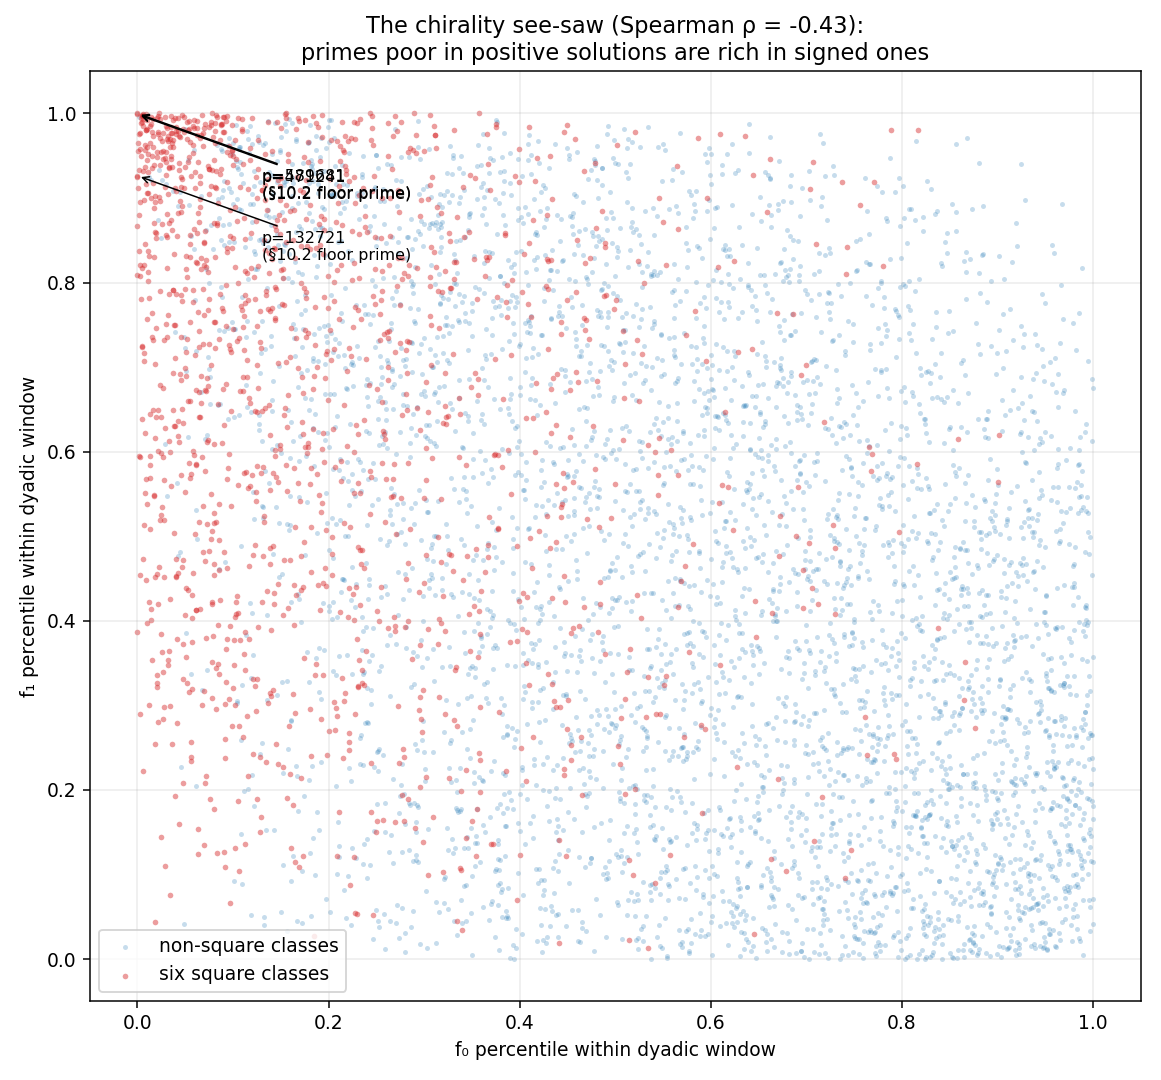
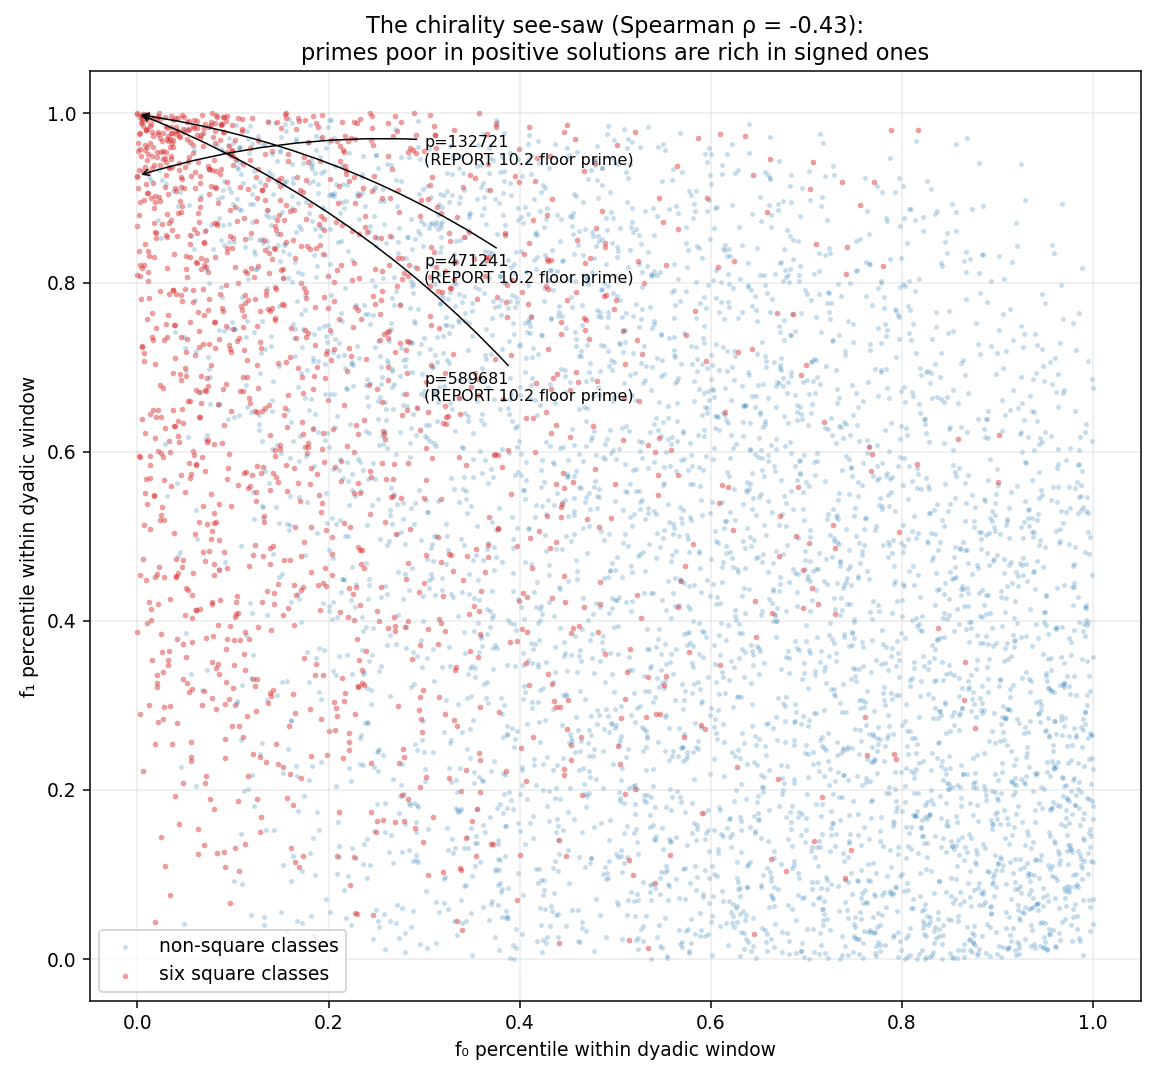
plot: fix overlapping floor-prime labels in the see-saw figure
The three §10.2 floor-prime callouts collided (two landed on the same
top-left spot and overprinted into garbled text). Fan them out to distinct
stacked positions with arced arrows, and spell out "REPORT 10.2" so the §
glyph no longer renders as a stray $. Regenerate plots/3_seesaw.png.

diff --git a/files/plot_types.py b/files/plot_types.py
@@ -155,11 +155,15 @@ ax.scatter(pct0[ok & ~sqb], pct1[ok & ~sqb], s=7, c="#1f77b4", alpha=0.25, lw=0,
            label="non-square classes")
 ax.scatter(pct0[ok & sqb], pct1[ok & sqb], s=9, c="#d62728", alpha=0.45, lw=0,
            label="six square classes")
-for fp in (132721, 471241, 589681):
+# fan the floor-prime callouts out vertically so the labels never overlap
+label_y = (0.955, 0.815, 0.675)
+for fp, ly in zip((132721, 471241, 589681), label_y):
     i = np.where(pb == fp)[0][0]
-    ax.annotate(f"p={fp}\n(§10.2 floor prime)", (pct0[i], pct1[i]),
-                xytext=(pct0[i] + 0.13, pct1[i] - 0.10), fontsize=8.5,
-                arrowprops=dict(arrowstyle="->", lw=0.8))
+    ax.annotate(f"p={fp}\n(REPORT 10.2 floor prime)", (pct0[i], pct1[i]),
+                xytext=(0.30, ly), textcoords="data",
+                fontsize=8.5, ha="left", va="center",
+                arrowprops=dict(arrowstyle="->", lw=0.8,
+                                connectionstyle="arc3,rad=0.12"))
 ax.set(xlabel="f₀ percentile within dyadic window", ylabel="f₁ percentile within dyadic window",
        title=f"The chirality see-saw (Spearman ρ = {rho:+.2f}):\n"
              "primes poor in positive solutions are rich in signed ones")